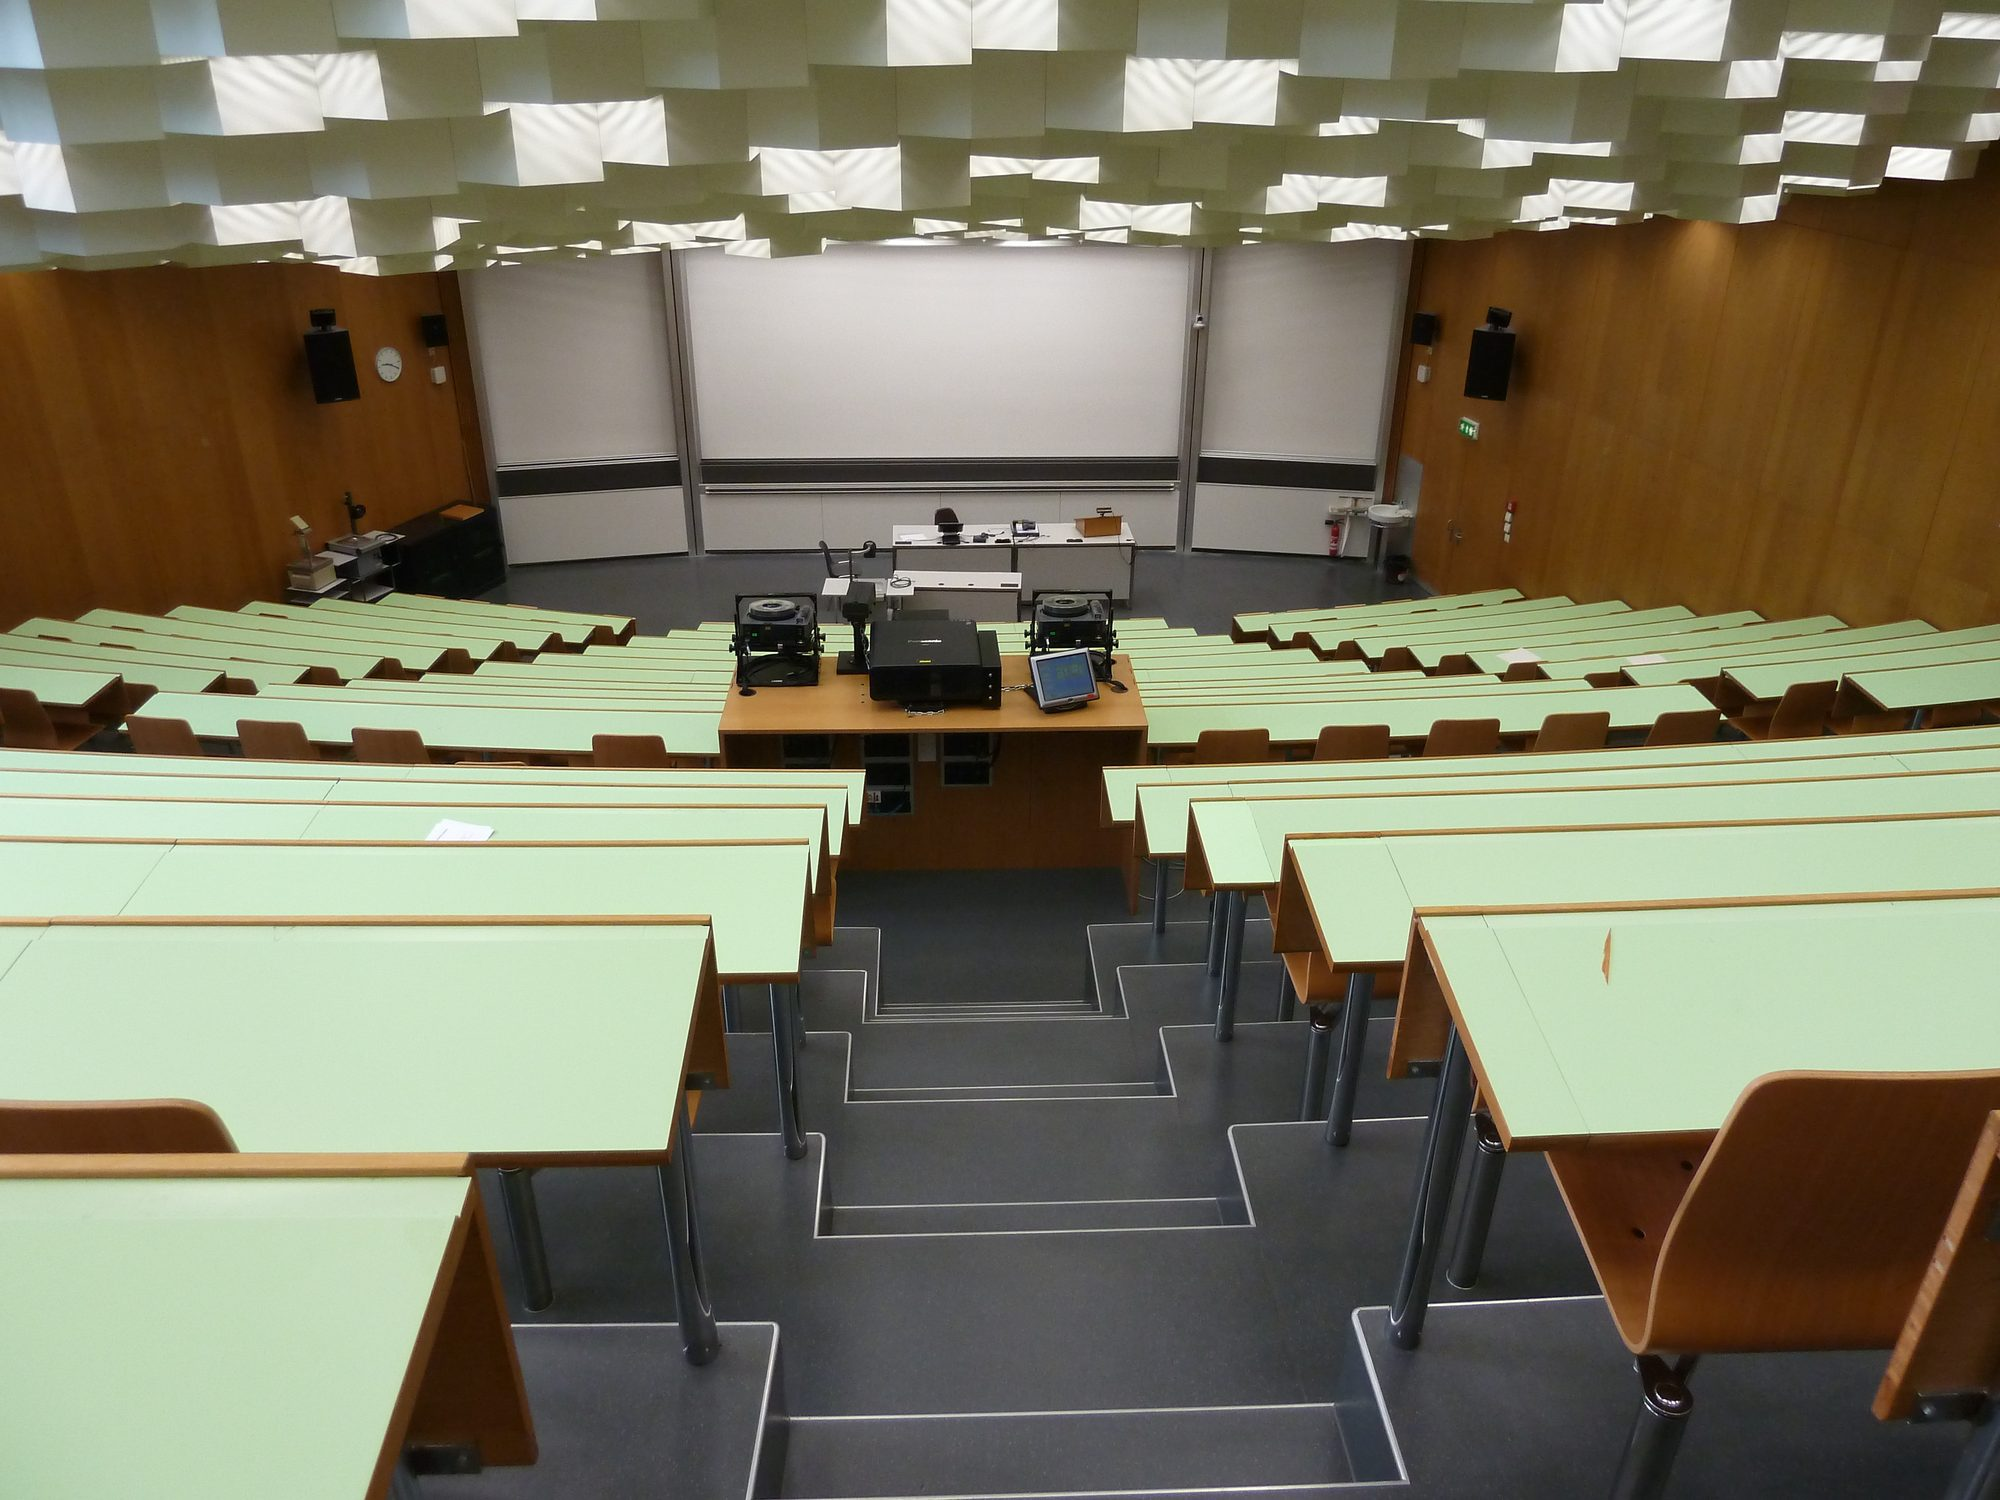
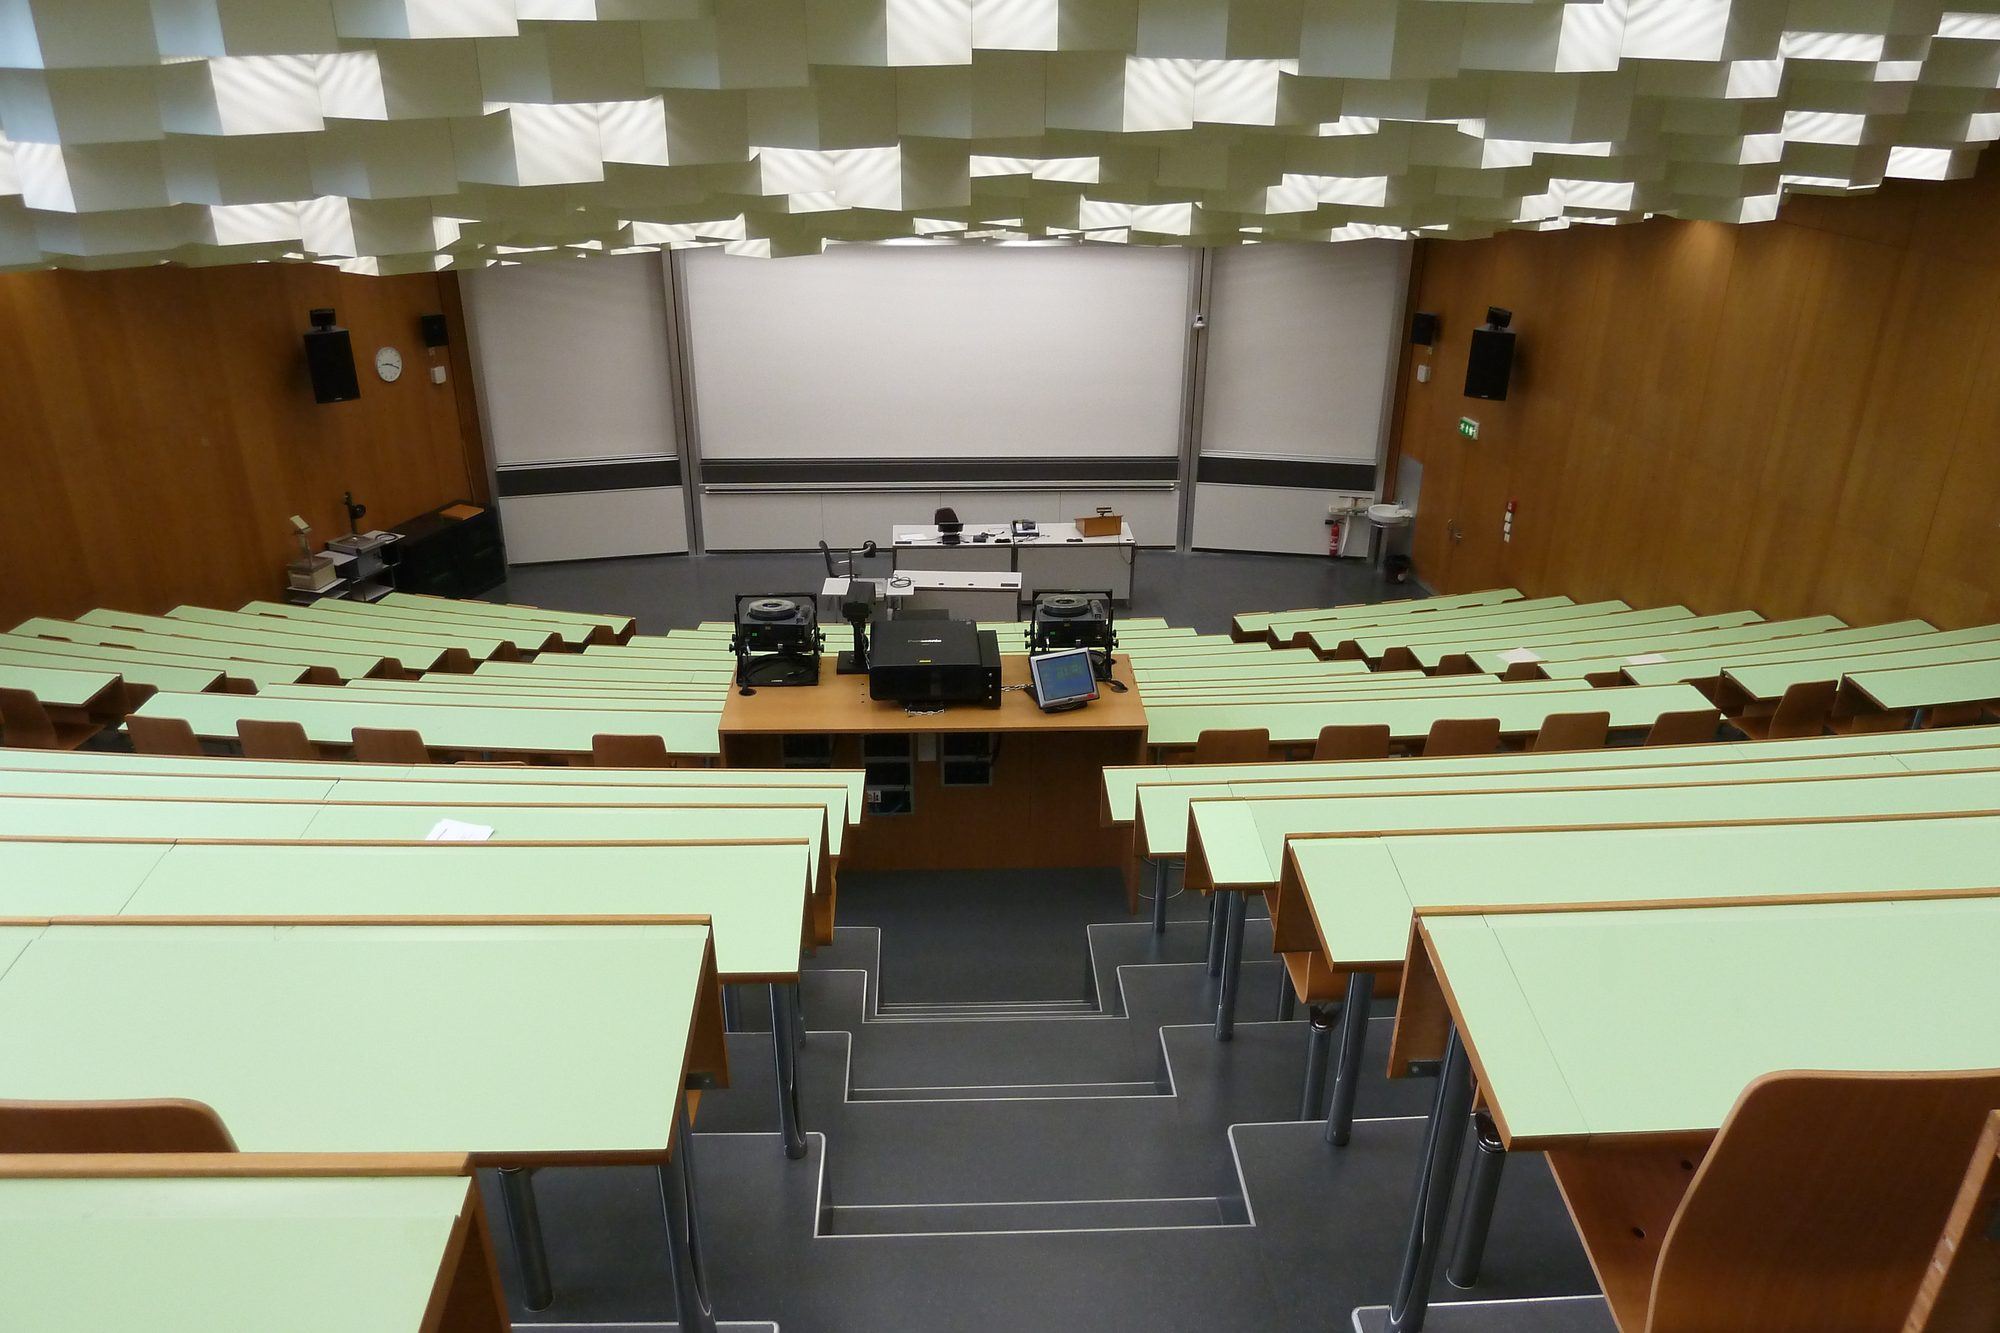
Crop the lecture hall to 3:2 so room switches stop squashing
With both photos the same shape the frame keeps its size when switching
rooms, so the outgoing photo no longer gets squeezed while it fades out.
The crop came off the bottom, so the dots move down to match.

diff --git a/rooms-data.js b/rooms-data.js
@@ -118,7 +118,7 @@ window.ROOMS = [
     hotspots: [
       {
         id: "recording",
-        x: 46.75, y: 44,
+        x: 46.75, y: 49.5,
         label: "Lecture recording",
         panel: {
           kicker: "Every lecture",
@@ -129,7 +129,7 @@ window.ROOMS = [
       },
       {
         id: "recap",
-        x: 46.75, y: 24.7,
+        x: 46.75, y: 27.8,
         label: "Lecture recap",
         panel: {
           kicker: "AI-generated",
@@ -143,7 +143,7 @@ window.ROOMS = [
       },
       {
         id: "exam",
-        x: 72.5, y: 49,
+        x: 72.5, y: 55.1,
         label: "Exam date",
         panel: {
           kicker: "Exam",
